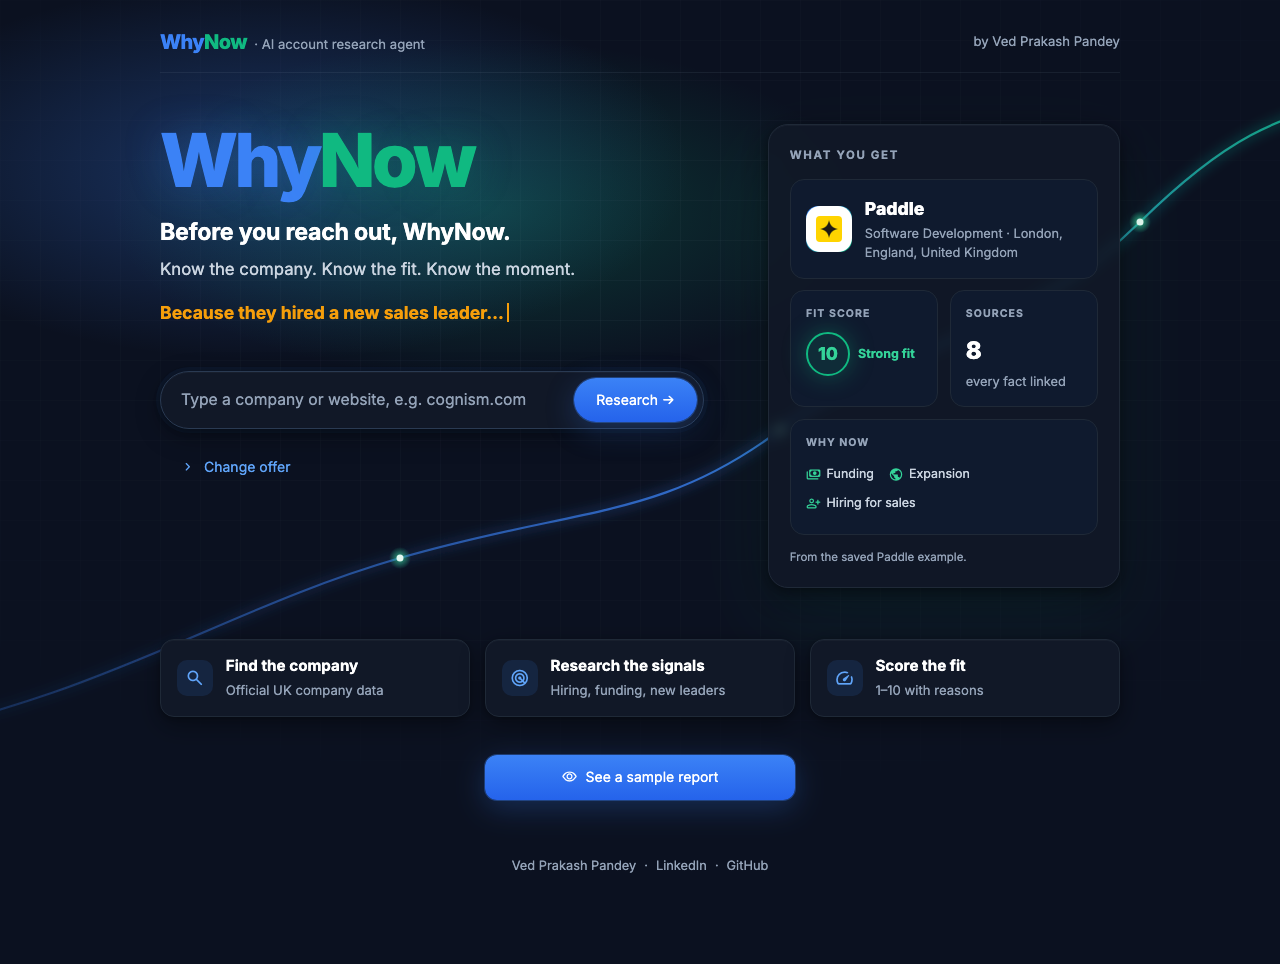
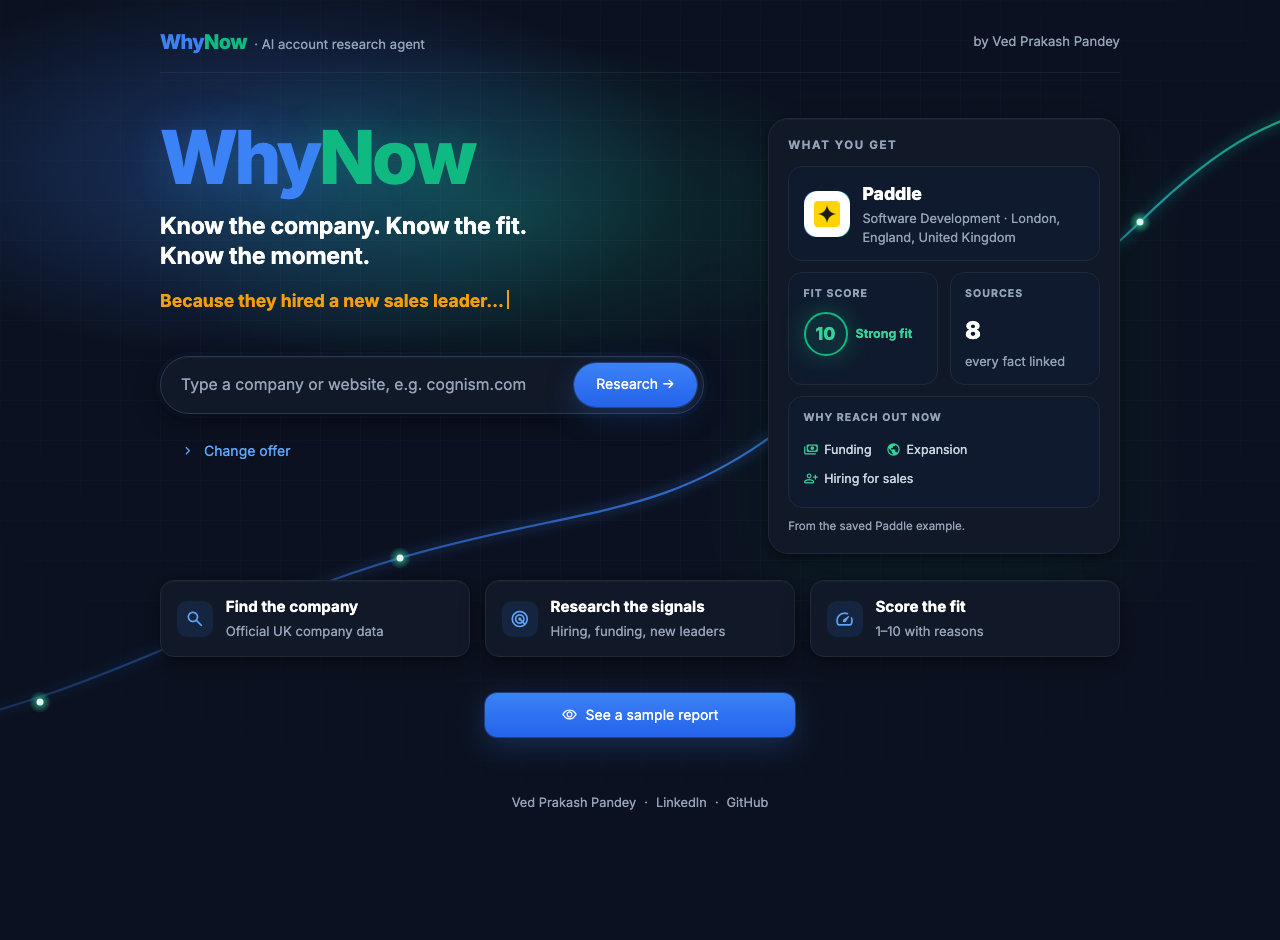
Headline 'Know the company. Know the fit. Know the moment.' replaces the tagline; 'Why reach out now' wording; tighter spacing; growth line passes behind the preview card

diff --git a/ui/style.css b/ui/style.css
@@ -70,12 +70,13 @@ a:hover { text-decoration: underline; }
 .wn-topbar-by:hover { color: var(--head) !important; text-decoration: none; }
 
 /* ---------- Hero (left column) ---------- */
-.wn-hero { padding: 1.6rem 0 0.4rem; }
+.wn-hero { padding: 1.4rem 0 0.2rem; }
 .wn-wordmark { font-size: 4.6rem; font-weight: 800; color: var(--blue); letter-spacing: -0.045em; line-height: 1;
   text-shadow: 0 0 40px rgba(59, 130, 246, 0.25); }
 .wn-wordmark span { color: var(--emerald); text-shadow: 0 0 40px rgba(16, 185, 129, 0.25); }
-.wn-slogan { font-size: 1.45rem; font-weight: 700; color: var(--head); margin: 1rem 0 0.35rem; letter-spacing: -0.01em; }
-.wn-intro { color: var(--body); font-size: 1.05rem; margin: 0; }
+.stApp .wn-headline, .wn-headline { font-size: 1.45rem; font-weight: 700; color: var(--head); margin: 1rem 0 0; padding: 0;
+  letter-spacing: -0.01em; line-height: 1.3; }
+.wn-headline span { white-space: nowrap; }  /* each short sentence stays on one line */
 
 /* Animated "Because…" line: typed in, held, faded; pure CSS, no scripts */
 .wn-typing { display: grid; margin: 1rem 0 1.3rem; min-height: 1.8rem; }
@@ -121,10 +122,11 @@ a:hover { text-decoration: underline; }
 .st-key-wn_offer summary svg { width: 14px; height: 14px; }
 
 /* ---------- Preview card (right column) ---------- */
-.wn-preview { background: rgba(17, 24, 39, 0.82); border: 1px solid var(--line); border-radius: 20px; padding: 1.3rem;
-  box-shadow: var(--shadow), 0 30px 80px rgba(16, 185, 129, 0.08); backdrop-filter: blur(6px); margin-top: 1.6rem; }
-.wn-preview-title { color: var(--muted); font-size: 0.72rem; font-weight: 700; letter-spacing: 0.14em; margin-bottom: 0.9rem; }
-.wn-pv { background: var(--tile); border: 1px solid var(--line); border-radius: 14px; padding: 0.95rem; }
+/* Solid (not see-through), so the growth line passes fully behind it */
+.wn-preview { background: var(--card); border: 1px solid var(--line); border-radius: 20px; padding: 1.1rem 1.2rem;
+  box-shadow: var(--shadow), 0 30px 80px rgba(16, 185, 129, 0.08); margin-top: 1.2rem; position: relative; }
+.wn-preview-title { color: var(--muted); font-size: 0.72rem; font-weight: 700; letter-spacing: 0.14em; margin-bottom: 0.7rem; }
+.wn-pv { background: var(--tile); border: 1px solid var(--line); border-radius: 14px; padding: 0.8rem 0.9rem; }
 .wn-pv-grid { display: grid; grid-template-columns: 1fr 1fr; gap: 0.7rem; margin-top: 0.7rem; }
 /* Fit score and sources side by side; "why now" full width underneath, its signals in one row */
 .wn-pv-grid .wn-pv:nth-child(2) { grid-column: 1 / -1; order: 3; }
@@ -140,10 +142,10 @@ a:hover { text-decoration: underline; }
 .wn-pv-line { font-size: 0.78rem; display: flex; align-items: center; gap: 0.35rem; margin: 0.25rem 0; color: var(--body); }
 .wn-pv-line .icon { font-size: 15px; color: var(--emerald-bright); }
 .wn-pv-big { font-size: 1.5rem; font-weight: 800; color: var(--head); }
-.wn-pv-note { color: var(--muted); font-size: 0.72rem; margin-top: 0.8rem; }
+.wn-pv-note { color: var(--muted); font-size: 0.72rem; margin-top: 0.6rem; }
 
 /* ---------- Steps and sample button ---------- */
-.wn-steps { display: grid; grid-template-columns: repeat(3, 1fr); gap: 0.9rem; margin: 2.2rem 0 1.4rem; }
+.wn-steps { display: grid; grid-template-columns: repeat(3, 1fr); gap: 0.9rem; margin: 0.6rem 0 1.2rem; }
 .wn-step { display: flex; gap: 0.8rem; align-items: center; background: var(--card); border: 1px solid var(--line);
   border-radius: 14px; padding: 0.9rem 1rem; box-shadow: var(--shadow); }
 .wn-step .icon { color: var(--blue-bright); background: rgba(59, 130, 246, 0.12); border-radius: 10px; padding: 8px; }
@@ -246,7 +248,7 @@ a:hover { text-decoration: underline; }
 /* ---------- Phones: stack, smaller type ---------- */
 @media (max-width: 760px) {
   .wn-wordmark { font-size: 3.4rem; }
-  .wn-slogan { font-size: 1.2rem; }
+  .stApp .wn-headline, .wn-headline { font-size: 1.2rem; }
   .wn-typing span { font-size: 0.98rem; }
   .wn-steps { grid-template-columns: 1fr; }
   .wn-fit { flex-direction: column; }

diff --git a/ui/components.py b/ui/components.py
@@ -104,11 +104,13 @@ def topbar():
 
 
 def hero():
-    """Left column: wordmark, slogan, one line, and the animated 'Because…' line (pure CSS)."""
+    """Left column: wordmark, headline, and the animated 'Because…' line (pure CSS)."""
     typing = "".join(f"<span>{esc(line)}</span>" for line in settings.APP_TYPING_LINES[:4])
+    # Each sentence in its own span, so a line only ever breaks between sentences
+    sentences = [x.strip() for x in settings.APP_HEADLINE.replace(". ", ".|").split("|")]
+    headline = " ".join(f"<span>{esc(x)}</span>" for x in sentences)
     return (f'<div class="wn-hero">{wordmark()}'
-            f'<div class="wn-slogan">{esc(settings.APP_SLOGAN)}</div>'
-            f'<p class="wn-intro">{esc(settings.APP_INTRO)}</p>'
+            f'<h2 class="wn-headline">{headline}</h2>'
             f'<div class="wn-typing" aria-label="{esc(settings.APP_TYPING_LINES[0])}">{typing}</div></div>')
 
 
@@ -118,7 +120,7 @@ def _background_svg():
     a soft blue-green glow behind the wordmark, and a thin glowing line chart rising
     from bottom-left to top-right with 4 dots. Being a background, it can never cover content.
     """
-    dots = [(560, 598), (940, 470), (1300, 262), (1530, 128)]
+    dots = [(200, 742), (560, 598), (1300, 262), (1500, 148)]   # none under the "What you get" card
     dot_svg = "".join(f'<circle cx="{x}" cy="{y}" r="11" fill="url(#dotglow)"/>'
                       f'<circle cx="{x}" cy="{y}" r="3.5" fill="#E2F8F0"/>' for x, y in dots)
     path = "M 30 780 C 260 740, 380 650, 560 598 S 820 560, 940 470 S 1180 380, 1300 262 S 1460 160, 1600 110"
@@ -194,7 +196,7 @@ def preview_card(sample=None):
             f'<div class="wn-pv"><div class="wn-pv-label">Fit score</div><div class="wn-pv-score">'
             f'<div class="wn-badge {kind}"><div class="wn-badge-circle">{int(score)}</div></div>'
             f'<div class="wn-badge {kind}"><div class="wn-badge-label">{esc(label)}</div></div></div></div>'
-            f'<div class="wn-pv"><div class="wn-pv-label">Why now</div>{lines}</div>'
+            f'<div class="wn-pv"><div class="wn-pv-label">{esc(settings.SIGNALS_TITLE)}</div>{lines}</div>'
             f'<div class="wn-pv"><div class="wn-pv-label">Sources</div><div class="wn-pv-big">{source_count}</div>'
             f'<div class="wn-pv-meta">every fact linked</div></div>'
             f'</div><div class="wn-pv-note">{note}</div></div>')
@@ -358,10 +360,10 @@ def signal_tile(s, by_id):
 
 def signals_card(r, by_id):
     if not r["signals"]:
-        body = '<p class="wn-empty">No buying signals found.</p>'
+        body = f'<p class="wn-empty">No reasons to reach out now were found.</p>'
     else:
         body = f'<div class="wn-signals">{"".join(signal_tile(s, by_id) for s in r["signals"])}</div>'
-    return card("Why now", "bolt", body)
+    return card(settings.SIGNALS_TITLE, "bolt", body)
 
 
 def news_card(r, by_id):

diff --git a/tests/test_app.py b/tests/test_app.py
@@ -93,7 +93,7 @@ def research_and_open(at):
 def test_landing_shows_brand_slogan_and_how_it_works(app):
     app.run()
     page = html(app)
-    for text in [settings.APP_LABEL, "Why<span>Now</span>", settings.APP_SLOGAN, settings.APP_INTRO,
+    for text in [settings.APP_LABEL, "Why<span>Now</span>", "Know the company.", "Know the fit.", "Know the moment.",
                  "Find the company", "Research the signals", "Score the fit"]:
         assert text in page
     assert app.text_area[0].value.startswith("An AI tool that helps SDR teams")
@@ -161,7 +161,7 @@ def test_full_report_shows_every_section(app):
     research_and_open(app)
     assert not app.exception
     page = html(app)
-    for heading in ["ICP fit", "Why now", "Recent news", "What we couldn&#x27;t find", "Sources"]:
+    for heading in ["ICP fit", "Why reach out now", "Recent news", "What we couldn&#x27;t find", "Sources"]:
         assert heading in page
     assert 'class="wn-badge strong"' in page                  # 8/10 → green
     assert '<span class="icon" aria-hidden="true">payments</span>Funding' in page   # signal icon

diff --git a/tests/test_components.py b/tests/test_components.py
@@ -82,8 +82,9 @@ def test_model_note_mentions_backup():
 def test_header_has_slogan_and_typing_lines():
     import settings
     out = ui.hero()
-    assert "Before you reach out, WhyNow." in out
-    assert "Know the company. Know the fit. Know the moment." in out
+    assert "Before you reach out" not in out                       # the old tagline is gone
+    assert ('<h2 class="wn-headline"><span>Know the company.</span> <span>Know the fit.</span> '
+            '<span>Know the moment.</span></h2>') in out
     for line in settings.APP_TYPING_LINES:
         assert ui.esc(line) in out
     assert "<script" not in out   # the animation is pure CSS
@@ -113,6 +114,7 @@ def test_preview_card_uses_the_saved_sample():
               "signals": [{"type": "funding"}], "sources": [1, 2, 3]}
     out = ui.preview_card(sample)
     assert "Paddle" in out and "Software Development · London" in out
+    assert "Why reach out now" in out
     assert 'wn-badge strong' in out and ">9<" in out and ">3<" in out
 
 

diff --git a/settings.py b/settings.py
@@ -114,8 +114,8 @@ GEMINI_FALLBACK_MODEL = "gemini-3.5-flash"   # tried once if the main model is b
 # ---------------------------------------------------------------------------
 APP_NAME = "WhyNow"
 APP_LABEL = "AI account research agent"
-APP_SLOGAN = "Before you reach out, WhyNow."
-APP_INTRO = "Know the company. Know the fit. Know the moment."
+APP_HEADLINE = "Know the company. Know the fit. Know the moment."
+SIGNALS_TITLE = "Why reach out now"   # the heading for "why now" signals, in the report and the landing preview
 APP_TYPING_LINES = [             # the animated amber line on the landing page
     "Because they're hiring SDRs…",
     "Because they just raised funding…",

diff --git a/README.md b/README.md
@@ -1,6 +1,6 @@
 # WhyNow
 
-**Before you reach out, WhyNow.**
+**Know the company. Know the fit. Know the moment.**
 
 WhyNow is an AI account research agent for SDRs and sales teams. Type any UK company and, in under a minute, see:
 - **who they are:** a short, sourced snapshot with key stats (headcount and trend, founded, funding, revenue)
@@ -39,7 +39,7 @@ Your browser opens at http://localhost:8501. Then:
 3. Click **Research this company** (usually 20–45 seconds). The report shows:
    - a banner with the logo, a one-line summary, and a profile card (industry, HQ, website, LinkedIn followers)
    - key stat tiles, and the fit score as a colour-coded badge (green 7–10, amber 4–6, red 1–3)
-   - who to contact, "why now" signal tiles with icons, recent news, what we couldn't find, and sources
+   - who to contact, "Why reach out now" tiles with icons, recent news, what we couldn't find, and sources
 
    Every small `S1`-style tag links to its source.
 4. Click **Create email for this company** to write the email. For scores of 3 or under, a note says it's probably not worth contacting.
@@ -65,7 +65,7 @@ Results are cached: looking up the same company again within 6 hours costs no AP
 - **News, signals and company card** ([sources/news_tavily.py](sources/news_tavily.py)), using Tavily:
   - **Company card:** headcount and its yearly trend, funding rounds, B2B/SaaS, website. It's only used if one of these confirms it's the company we found: its legal name matches, its website matches, or its name *and* head office city both match Companies House. Each report says how its card was confirmed. If the full name finds no card (e.g. "Sage Group"), one more search tries the short name ("Sage").
   - **News:** recent articles with the company in the headline.
-  - **"Why now" signals:** targeted searches for sales hiring, funding, new sales leaders, expansion and layoffs.
+  - **"Why reach out now" signals:** targeted searches for sales hiring, funding, new sales leaders, expansion and layoffs.
   - **Website:** homepage text, so the AI knows what the company actually does.
   - Searches include the website and a topic word from the company card. That stops brands that are ordinary words ("Paddle") pulling in unrelated stories.
   - Try it (about 9 Tavily credits): `.venv/bin/python -m sources.news_tavily "Paddle" "PADDLE.COM MARKET LIMITED" "paddle.com"`
@@ -75,7 +75,7 @@ Results are cached: looking up the same company again within 6 hours costs no AP
   - **Code checks the AI's work:**
     - claims citing sources we didn't fetch are removed
     - news picks must be real stories from the last 6 months
-    - any recent story used as a "why now" signal also appears under "Recent news", so the two never disagree
+    - any recent story used as a "Why reach out now" signal also appears under "Recent news", so the two never disagree
     - the email (written only when asked) may only use facts already in the report, must be under 120 words and must open with a cited trigger
     - common American spellings in the email are corrected to British (e.g. personalize → personalise)
     - every change is listed under "Code checks"
